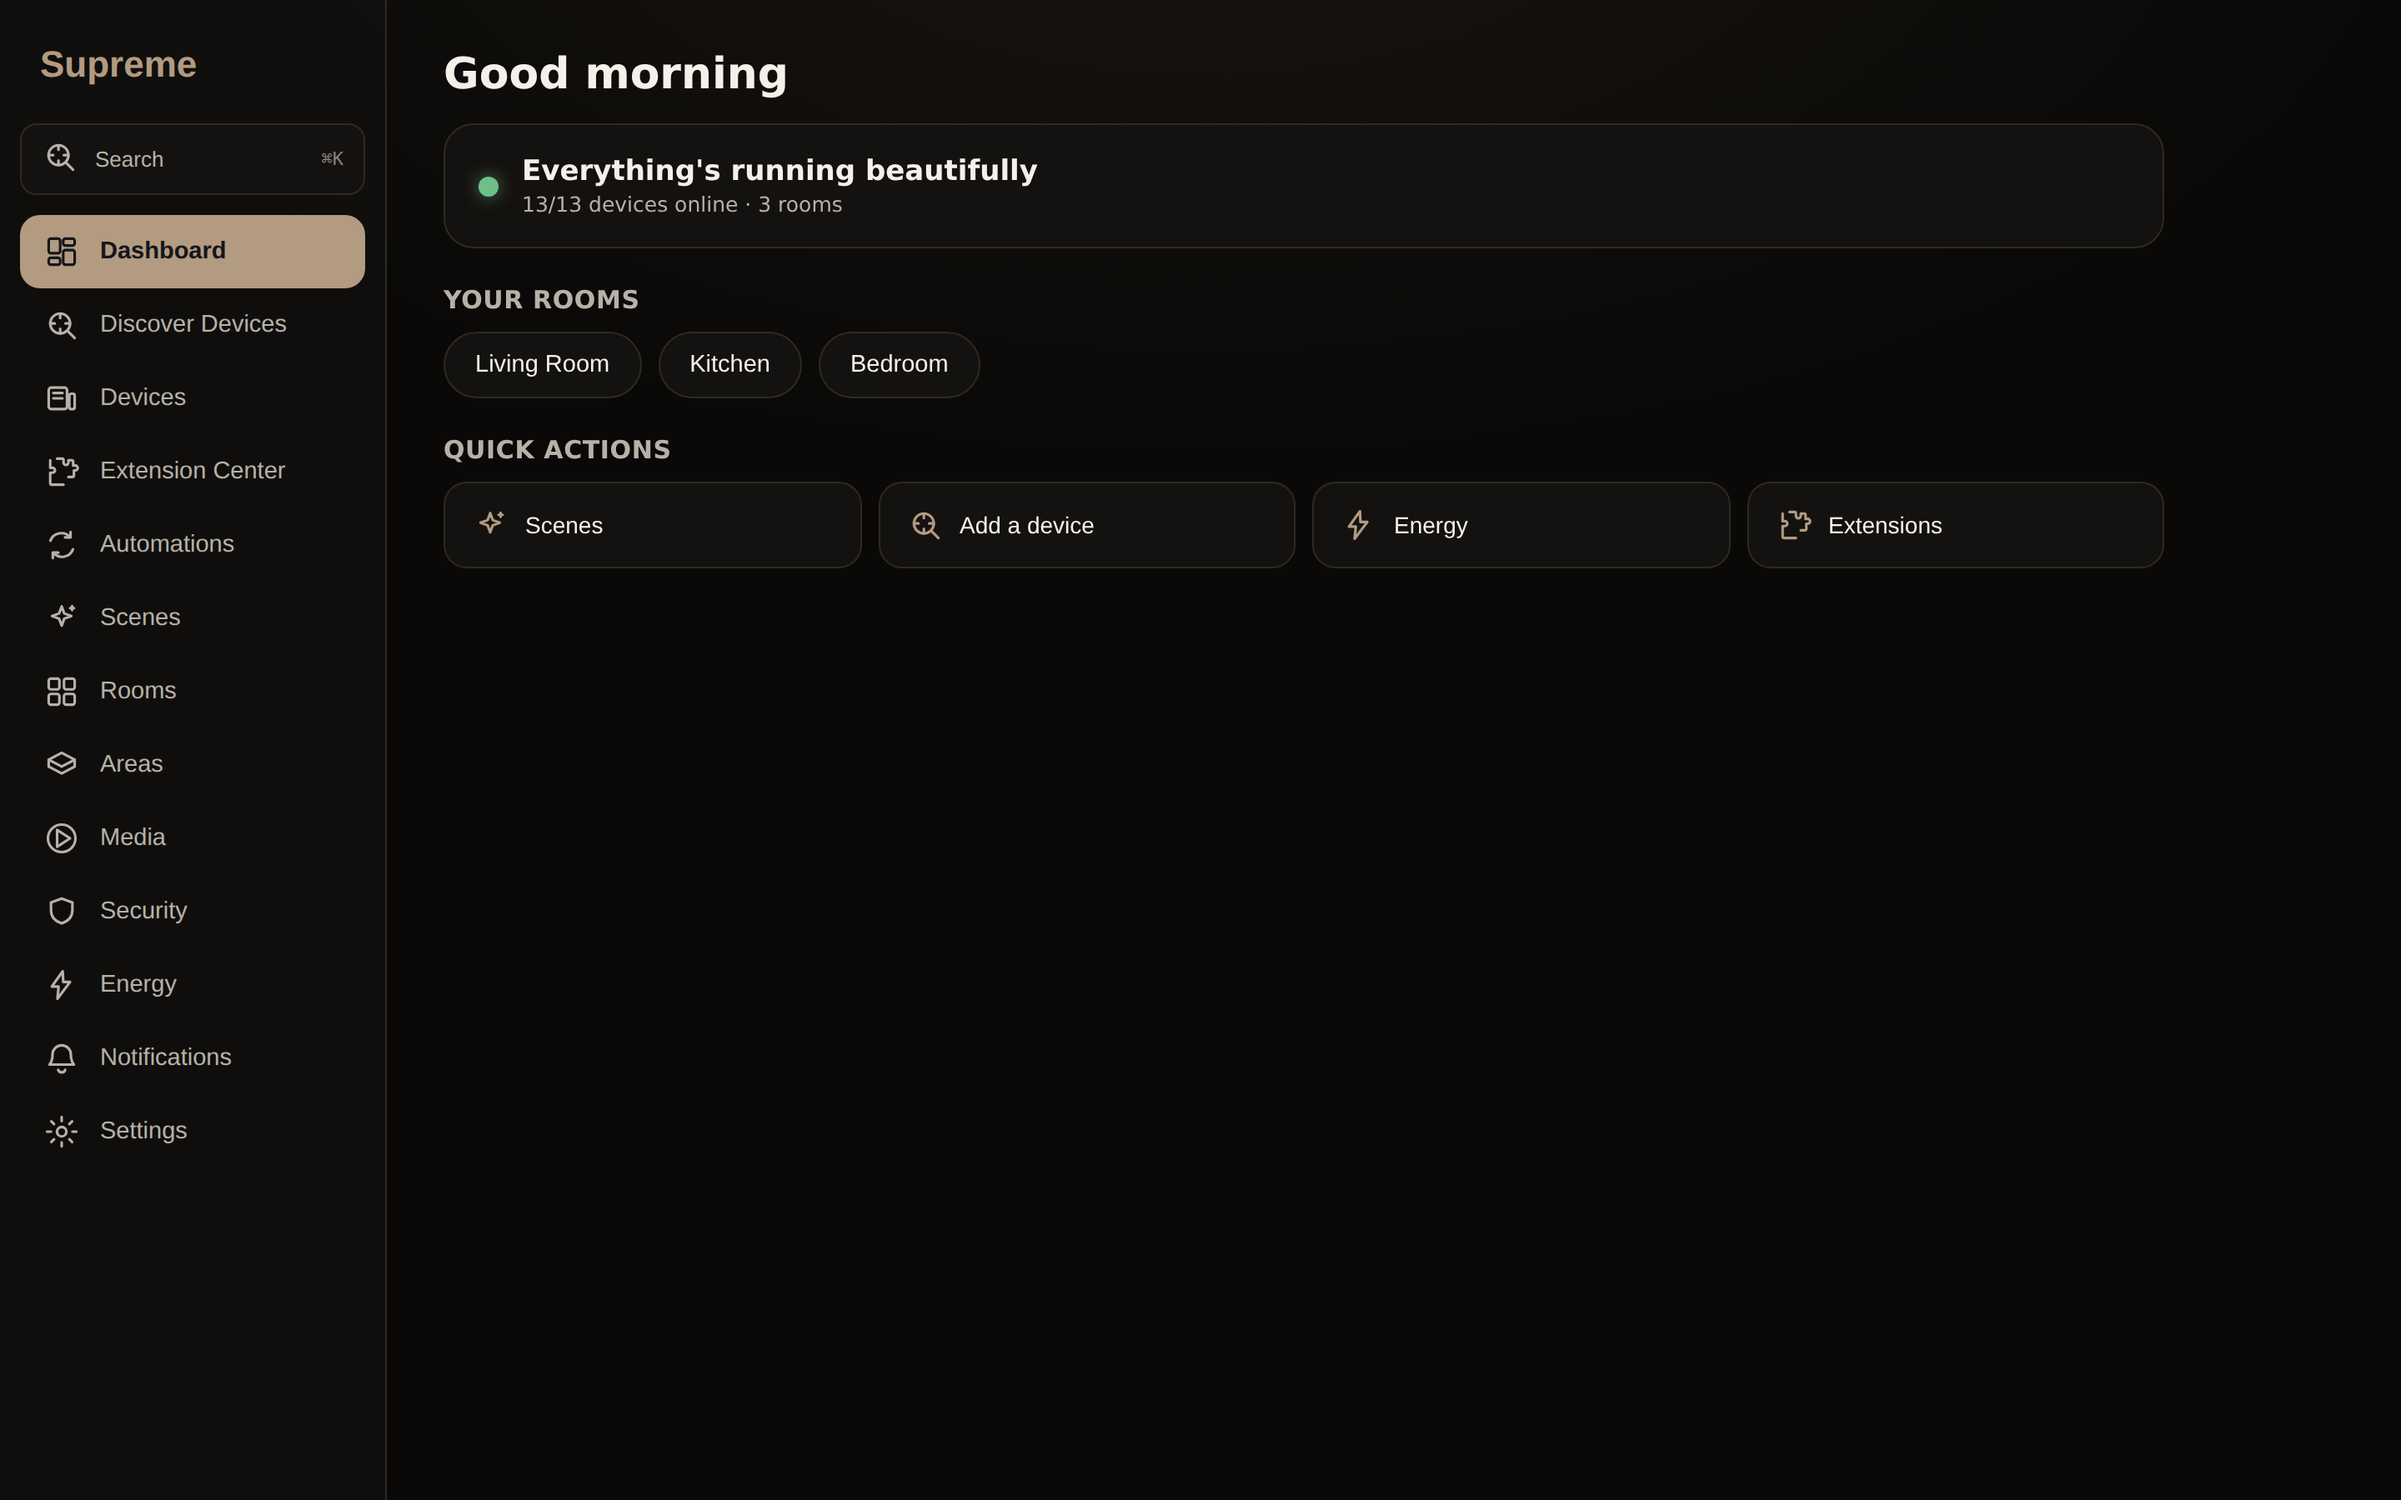
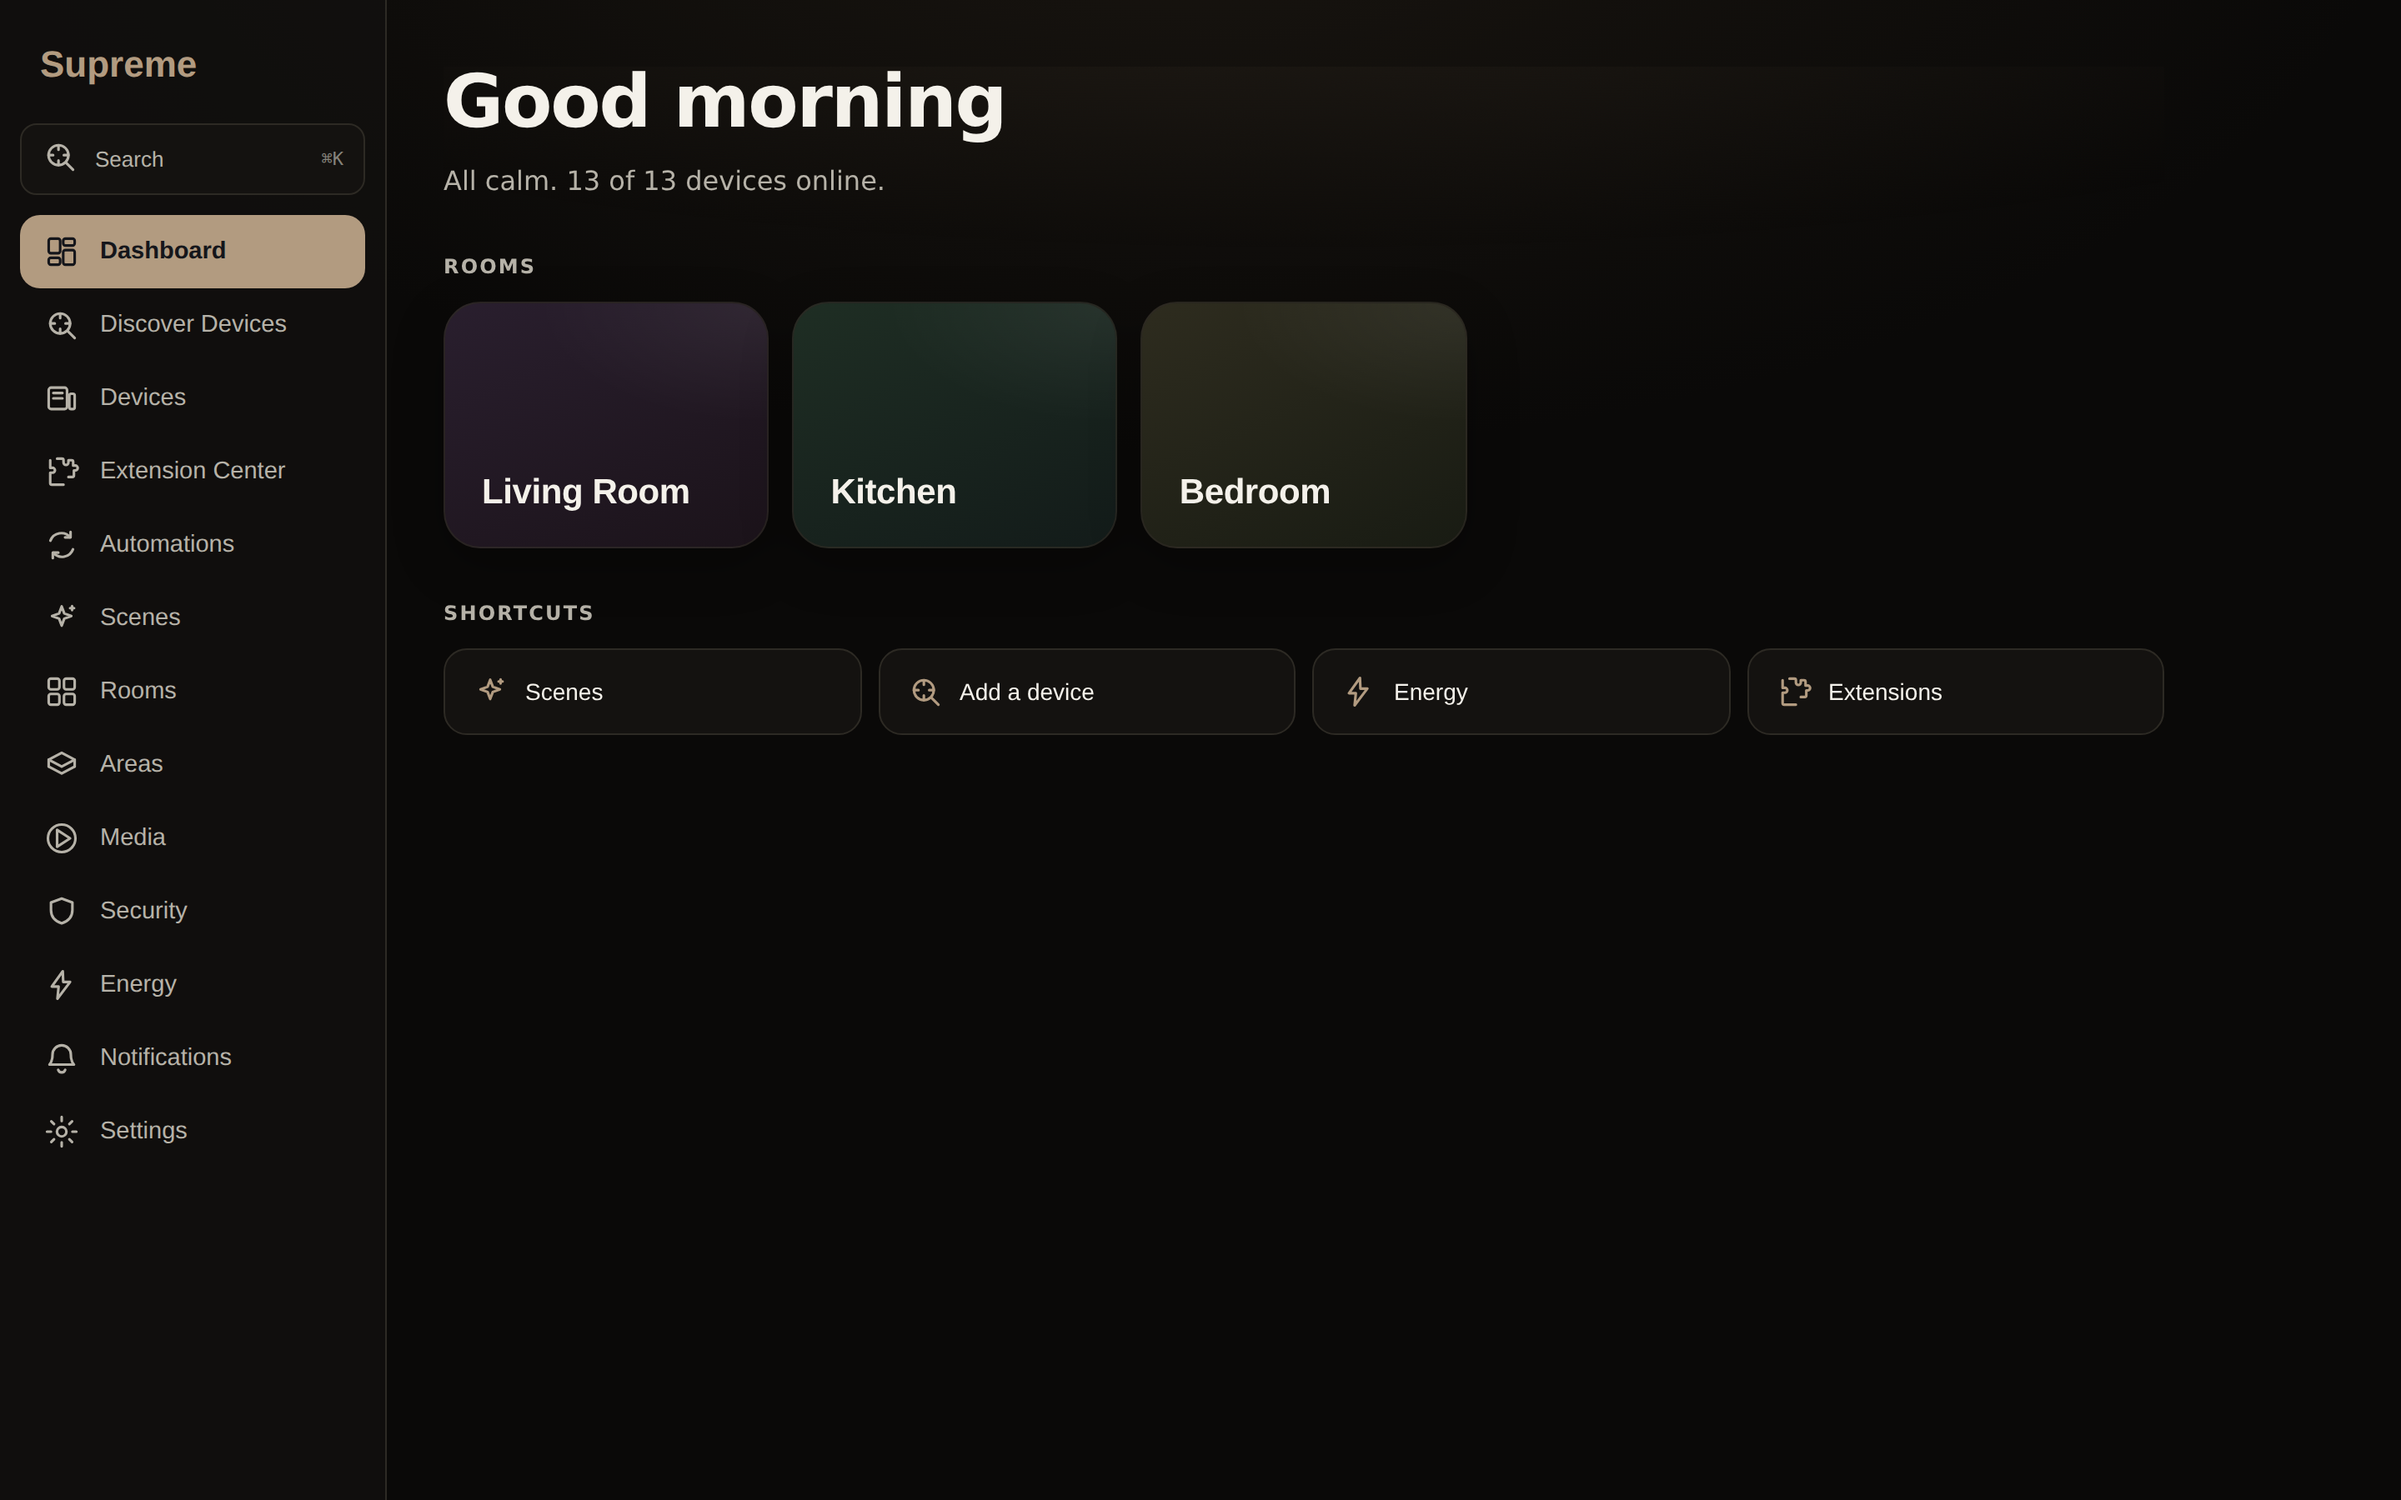
Home redesign: mobile parity (§ Project Monolith)
Brings the Flutter Home to identity-parity with web: a large typographic greeting, a borderless
one-line status ("All calm. 13 of 13 devices online."), and rooms as softly-lit, uniquely-tinted
tiles with ambient shadow and a bottom-anchored name — the home is the hero, not a dashboard. Quiet
uppercase section labels replace card headers; the status box is gone. Same identity, structure and
copy as web.

Refreshed the dashboard screenshots (web + mobile) in docs/screenshots. Smoke test updated to the new
copy.

Verified: flutter analyze clean, flutter test 4/4; visually confirmed against the mock demo home.

Claude-Session: https://claude.ai/code/session_01EBecuTkque4TJM3ndyHGTv

diff --git a/apps/mobile/lib/screens/dashboard.dart b/apps/mobile/lib/screens/dashboard.dart
@@ -99,8 +99,6 @@ class DashboardScreen extends ConsumerWidget {
     if (backup != null && (backup['schedule'] as Map?)?['enabled'] == true && backup['lastBackupAt'] == null) {
       attention.add((textLabel: 'No backup yet — protect your setup', warn: false, target: const BackupScreen()));
     }
-    final anyWarn = attention.any((a) => a.warn);
-
     return SafeArea(
       child: RefreshIndicator(
         onRefresh: () async {
@@ -110,33 +108,23 @@ class DashboardScreen extends ConsumerWidget {
         child: ListView(
           padding: const EdgeInsets.fromLTRB(AureonSpacing.lg, AureonSpacing.lg, AureonSpacing.lg, AureonSpacing.xxl),
           children: [
+            // The home greets you — typography is the hierarchy, no boxes (§ Project Monolith).
             Row(crossAxisAlignment: CrossAxisAlignment.start, children: [
-              Expanded(child: Column(crossAxisAlignment: CrossAxisAlignment.start, children: [
-                Text(_greeting(), style: text.titleLarge),
-                if (devMode) Text('Supreme OS${diag != null ? ' · v${diag['hubVersion']}' : ''}', style: text.labelMedium),
-              ])),
+              Expanded(child: Text(_greeting(), style: text.headlineMedium?.copyWith(fontWeight: FontWeight.w600, letterSpacing: -0.5))),
               const HomeSwitcherButton(),
             ]),
-            const SizedBox(height: AureonSpacing.md),
-            const Align(alignment: Alignment.centerLeft, child: WeatherChip()),
-            const SizedBox(height: AureonSpacing.md),
-
-            // One calm status line: all-good, or how many things want a look.
-            Container(
-              padding: const EdgeInsets.all(AureonSpacing.md),
-              decoration: BoxDecoration(color: AureonBase.surface, borderRadius: BorderRadius.circular(AureonRadius.lg), border: Border.all(color: scheme.outlineVariant.withValues(alpha: 0.4))),
-              child: Row(children: [
-                Container(width: 12, height: 12, decoration: BoxDecoration(shape: BoxShape.circle, color: diag == null ? scheme.onSurfaceVariant : anyWarn ? AureonStatus.warning : AureonStatus.good)),
-                const SizedBox(width: 14),
-                Expanded(child: Column(crossAxisAlignment: CrossAxisAlignment.start, children: [
-                  Text(score == null
-                      ? 'Checking on your home…'
-                      : attention.isEmpty ? "Everything's running beautifully" : attention.length == 1 ? 'One thing needs a look' : '${attention.length} things need a look', style: text.titleMedium),
-                  if (diag != null) Text('$online/$deviceTotal devices online · ${counts?['rooms'] ?? 0} rooms', style: text.labelSmall),
-                ])),
-              ]),
+            const SizedBox(height: 8),
+            Text(
+              score == null
+                  ? 'Settling in…'
+                  : attention.isEmpty
+                      ? (diag != null ? 'All calm. $online of $deviceTotal devices online.' : 'All calm.')
+                      : attention.length == 1 ? 'One thing would like your attention.' : '${attention.length} things would like your attention.',
+              style: text.bodyLarge?.copyWith(color: scheme.onSurfaceVariant),
             ),
             const SizedBox(height: AureonSpacing.md),
+            const Align(alignment: Alignment.centerLeft, child: WeatherChip()),
+            const SizedBox(height: AureonSpacing.lg),
 
             // Needs attention — real problems only, in plain language. Absent when all is well.
             for (final a in attention) ...[
@@ -162,22 +150,28 @@ class DashboardScreen extends ConsumerWidget {
             ..._favourites(context, ref),
             ..._recentlyUsed(context, ref),
 
-            // Your rooms — the home leads, most-used first (§ Home as the interface).
+            // Rooms are the hero — each a calm, softly-lit surface you step into (§ Project Monolith).
             if (rooms.isNotEmpty) ...[
-              Text('Your rooms', style: text.titleSmall),
+              _sectionLabel(context, 'Rooms'),
               const SizedBox(height: AureonSpacing.sm),
-              Wrap(spacing: AureonSpacing.sm, runSpacing: AureonSpacing.sm, children: [
-                for (final r in rooms)
-                  ActionChip(
-                    label: Text(r.name),
-                    onPressed: () { usage.record('room', r.id); _push(context, Scaffold(appBar: AppBar(title: Text(r.name)), body: RoomView(roomId: r.id, roomName: r.name, areaType: r.areaType, heroImageUrl: r.heroImageUrl))); },
-                  ),
-              ]),
+              Builder(builder: (context) {
+                final w = (MediaQuery.sizeOf(context).width - AureonSpacing.lg * 2 - AureonSpacing.sm) / 2;
+                return Wrap(spacing: AureonSpacing.sm, runSpacing: AureonSpacing.sm, children: [
+                  for (final r in rooms)
+                    SizedBox(
+                      width: w,
+                      child: _RoomTile(
+                        name: r.name,
+                        onTap: () { usage.record('room', r.id); _push(context, Scaffold(appBar: AppBar(title: Text(r.name)), body: RoomView(roomId: r.id, roomName: r.name, areaType: r.areaType, heroImageUrl: r.heroImageUrl))); },
+                      ),
+                    ),
+                ]);
+              }),
               const SizedBox(height: AureonSpacing.lg),
             ],
 
-            // Quick actions.
-            Text('Quick actions', style: text.titleSmall),
+            // Everyday jumps — understated, the rooms stay the hero.
+            _sectionLabel(context, 'Shortcuts'),
             const SizedBox(height: AureonSpacing.sm),
             Wrap(spacing: AureonSpacing.sm, runSpacing: AureonSpacing.sm, children: [
               _Quick(icon: Icons.auto_awesome_outlined, label: 'Scenes', onTap: () => _push(context, const ScenesScreen())),
@@ -188,7 +182,7 @@ class DashboardScreen extends ConsumerWidget {
 
             if (events.isNotEmpty) ...[
               const SizedBox(height: AureonSpacing.lg),
-              Text('Recent activity', style: text.titleSmall),
+              _sectionLabel(context, 'Recent activity'),
               const SizedBox(height: AureonSpacing.sm),
               for (final e in events.take(5))
                 Padding(
@@ -340,6 +334,59 @@ class DashboardScreen extends ConsumerWidget {
   static String _time(String iso) {
     final d = DateTime.tryParse(iso)?.toLocal();
     return d == null ? '' : '${d.hour.toString().padLeft(2, '0')}:${d.minute.toString().padLeft(2, '0')}';
+  }
+}
+
+/// A quiet uppercase section label — typography as hierarchy, no boxes (§ Project Monolith).
+Widget _sectionLabel(BuildContext context, String label) => Text(
+      label.toUpperCase(),
+      style: Theme.of(context).textTheme.labelMedium?.copyWith(
+            letterSpacing: 1.1,
+            fontWeight: FontWeight.w600,
+            color: Theme.of(context).colorScheme.onSurfaceVariant,
+          ),
+    );
+
+/// A deterministic warm tint per room so each reads as its own softly-lit place (no photo required).
+LinearGradient _roomTint(String name) {
+  var h = 0;
+  for (var i = 0; i < name.length; i++) {
+    h = (h * 31 + name.codeUnitAt(i)) % 360;
+  }
+  return LinearGradient(
+    begin: Alignment.topLeft,
+    end: Alignment.bottomRight,
+    colors: [
+      HSLColor.fromAHSL(1, h.toDouble(), 0.20, 0.15).toColor(),
+      HSLColor.fromAHSL(1, ((h + 28) % 360).toDouble(), 0.18, 0.09).toColor(),
+    ],
+  );
+}
+
+/// Rooms are the hero: a softly-lit tile with an ambient shadow and a bottom-anchored name.
+class _RoomTile extends StatelessWidget {
+  const _RoomTile({required this.name, required this.onTap});
+  final String name;
+  final VoidCallback onTap;
+
+  @override
+  Widget build(BuildContext context) {
+    return InkWell(
+      borderRadius: BorderRadius.circular(22),
+      onTap: onTap,
+      child: Container(
+        height: 132,
+        padding: const EdgeInsets.all(18),
+        alignment: Alignment.bottomLeft,
+        decoration: BoxDecoration(
+          gradient: _roomTint(name),
+          borderRadius: BorderRadius.circular(22),
+          border: Border.all(color: Colors.white.withValues(alpha: 0.06)),
+          boxShadow: [BoxShadow(color: Colors.black.withValues(alpha: 0.28), blurRadius: 24, offset: const Offset(0, 10))],
+        ),
+        child: Text(name, style: Theme.of(context).textTheme.titleMedium?.copyWith(fontWeight: FontWeight.w600)),
+      ),
+    );
   }
 }
 

diff --git a/apps/mobile/test/smoke_test.dart b/apps/mobile/test/smoke_test.dart
@@ -69,10 +69,10 @@ void main() {
     ));
     await tester.pumpAndSettle();
 
-    expect(find.textContaining("Everything's running beautifully"), findsWidgets); // calm all-good status
+    expect(find.textContaining('All calm'), findsWidgets); // calm all-good status
     expect(find.textContaining('devices online'), findsWidgets); // homeowner-friendly summary line
-    expect(find.text('Quick actions'), findsWidgets); // everyday jumps
-    expect(find.text('Scenes'), findsWidgets); // a quick action
+    expect(find.text('SHORTCUTS'), findsWidgets); // understated shortcut label
+    expect(find.text('Scenes'), findsWidgets); // a shortcut
   });
 
   testWidgets('home switcher shows the active home and lists all homes', (tester) async {
